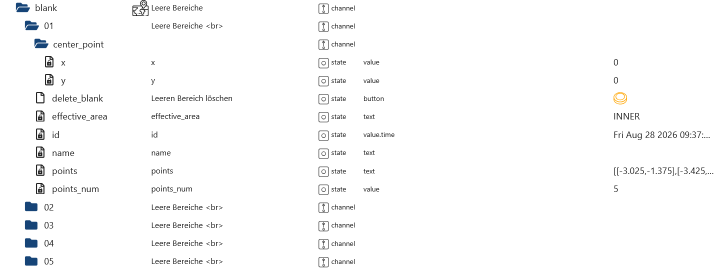
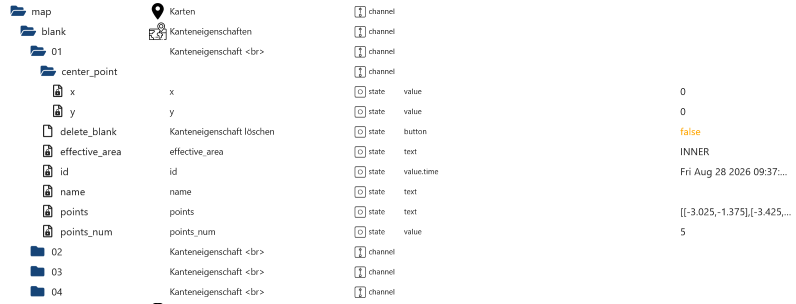
region_blank name changed & catch pattern size

diff --git a/main.js b/main.js
@@ -1744,6 +1744,9 @@ class SunseekerAdapter extends utils.Adapter {
             this.onSunseekerCustomMultiZigZag({ sn, data });
             return;
         }
+        if (data.support_custom_pattern_size) {
+            delete data.support_custom_pattern_size;
+        }
         if (data.time && typeof data.time === "object" && data.time !== null) {
             const time_schedule = Object.assign({}, data);
             this.cleanUpCalendar(sn, time_schedule, 1);
@@ -1797,6 +1800,20 @@ class SunseekerAdapter extends utils.Adapter {
             delete data.status;
             this.setMowerRaw(sn, data);
             return;
+        }
+        if (data.rain_countdown != null) {
+            if (!data.rain) {
+                data.rain = {};
+            }
+            data.rain["rain_countdown"] = data.rain_countdown;
+            delete data.rain_countdown;
+        }
+        if (data.rain_status != null) {
+            if (!data.rain) {
+                data.rain = {};
+            }
+            data.rain["rain_status"] = data.rain_status;
+            delete data.rain_status;
         }
         if (id == "report_notice") {
             const notice = {
@@ -3006,47 +3023,47 @@ class SunseekerAdapter extends utils.Adapter {
                         await this.json2iob.parse(`${sn}.map.blank`, map_info.region_blank, {
                             channelName: {
                                 name: {
-                                    en: "Blank areas",
-                                    de: "Leere Bereiche",
-                                    ru: "Пустые участки",
-                                    pt: "Áreas em branco",
-                                    nl: "Lege gebieden",
-                                    fr: "Zones vides",
-                                    it: "Area vuota",
-                                    es: "Áreas en blanco",
-                                    pl: "Puste obszary",
-                                    uk: "Пусті області",
-                                    "zh-cn": "空白区域",
+                                    en: "Boundary properties",
+                                    de: "Kanteneigenschaften",
+                                    ru: "Свойства ребер",
+                                    pt: "Propriedades de borda",
+                                    nl: "Randeigenschappen",
+                                    fr: "Propriétés de bord",
+                                    it: "Proprietà dei bordi",
+                                    es: "Propiedades de borde",
+                                    pl: "Właściwości krawędzi",
+                                    uk: "Властивості ребра",
+                                    "zh-cn": "边缘属性",
                                 },
                                 icon: "img/blank.png",
                             },
                             forceIndex: true,
                         });
                         const lang_b = {
-                            en: "Blank area delete",
-                            de: "Leeren Bereich löschen",
-                            ru: "Удалить пустую область",
-                            pt: "Excluir área em branco",
-                            nl: "Leeg gebied verwijderen",
-                            fr: "Supprimer la zone vide",
-                            it: "area vuota elimina",
-                            es: "eliminar área en blanco",
-                            pl: "Usuń pusty obszar",
-                            uk: "Видалення порожньої області",
-                            "zh-cn": "空白区域删除",
+                            en: "Delete Boundary property",
+                            de: "Kanteneigenschaft löschen",
+                            ru: "Удалить свойство ребра",
+                            pt: "Excluir propriedade de borda",
+                            nl: "Randeigenschap verwijderen",
+                            fr: "Supprimer la propriété de bord",
+                            it: "Elimina la proprietà del bordo",
+                            es: "Eliminar propiedad de borde",
+                            pl: "Usuń właściwość krawędzi",
+                            uk: "Видалити властивість ребра",
+                            "zh-cn": "删除边属性",
                         };
                         const name_b = {
-                            en: "Blank areas <br>",
-                            de: "Leere Bereiche <br>",
-                            ru: "Пустые участки <br>",
-                            pt: "Áreas em branco <br>",
-                            nl: "Lege gebieden <br>",
-                            fr: "Zones vides <br>",
-                            it: "Area vuota <br>",
-                            es: "Áreas en blanco <br>",
-                            pl: "Puste obszary <br>",
-                            uk: "Пусті області <br>",
-                            "zh-cn": "空白区域 <br>",
+                            en: "Boundary property <br>",
+                            de: "Kanteneigenschaft <br>",
+                            ru: "Краевая собственность <br>",
+                            pt: "Propriedade Edge <br>",
+                            nl: "Randeigenschap <br>",
+                            fr: "Propriété de bord <br>",
+                            it: "proprietà del bordo <br>",
+                            es: "Propiedad Edge <br>",
+                            pl: "Właściwość krawędzi <br>",
+                            uk: "Властивість краю <br>",
+                            "zh-cn": "边缘属性 <br>",
                         };
                         this.sunseeker.addDeleteObject(
                             sn,
@@ -4201,6 +4218,31 @@ class SunseekerAdapter extends utils.Adapter {
     }
 
     /**
+     * @param {string} sn
+     */
+    async editBoundary(sn) {
+        if (!this.sunseeker) {
+            return;
+        }
+        const last_edge = [];
+        const new_edge = [];
+        const region_id = 123;
+        await this.sunseeker.setDeviceProperty(sn, {
+            id: "setDrawEdge",
+            key: "draw_edge",
+            area_info: [
+                {
+                    flag: 0,
+                    last_edge: last_edge,
+                    new_edge: new_edge,
+                    region_id: region_id,
+                    type: 0,
+                },
+            ],
+        });
+    }
+
+    /**
      * @param {string} id
      * @param {string} sn
      * @param {ioBroker.State | null} gap
@@ -4347,6 +4389,7 @@ class SunseekerAdapter extends utils.Adapter {
         let key_send = "";
         /**
          * type = 0 region_work -> zones -> *
+         * type = 1 region_blank -> blank -> map.blank
          * type = 2 region_channel -> passage area -> map.passages
          * type = 3 region_obstacle -> obstacle area -> map.obstacles
          * type = 4 region_forbidden -> forbidden area -> map.forbidden
@@ -4483,11 +4526,11 @@ class SunseekerAdapter extends utils.Adapter {
         let type = -1;
         /**
          * type = 0 region_work -> zones -> *
+         * type = 1 region_blank -> blank -> map.blank ->
          * type = 2 region_channel -> passage area -> map.passages
          * type = 3 region_obstacle -> obstacle area -> map.obstacles
          * type = 4 region_forbidden -> forbidden area -> map.forbidden
          * type = 8 region_placed_blank -> safe area -> map.placed_blank
-         * type = ? region_blank -> blank -> map.blank
          * type = ? region_forbid_trim
          * type = ? divide_area_work
          */
@@ -4645,7 +4688,7 @@ class SunseekerAdapter extends utils.Adapter {
                         const newPattern = {
                             img_value: img.val,
                             last_edit_time: actTime,
-                            min_width: 2.4,
+                            min_width: this.sunseeker.patternSize(img.val),
                             vertexs: JSON.parse(points.val),
                             img_id: actTime - 58535,
                         };
@@ -5678,7 +5721,7 @@ class SunseekerAdapter extends utils.Adapter {
                 );
             }
         } else if (command === "share_apply_invite") {
-            if (state && state.val) {
+            if (state && state.val && state.val != "none") {
                 const data = {
                     deviceSn: state.val,
                     accept: 1,
@@ -5688,7 +5731,7 @@ class SunseekerAdapter extends utils.Adapter {
                     if (obj && obj.common && obj.common.states) {
                         delete obj.common.states[state.val];
                         const new_obj = JSON.parse(JSON.stringify(obj));
-                        const status = await this.sunseeker.acceptShareApplyInvite(id, state.val, new_obj, sn, data);
+                        const status = await this.sunseeker.acceptShareApplyInvite(id, "none", new_obj, sn, data);
                         if (status) {
                             this.restart();
                         }

diff --git a/lib/sunseeker/devices.js b/lib/sunseeker/devices.js
@@ -86,6 +86,33 @@ module.exports = {
     },
 
     /**
+     * @param {string} pattern
+     */
+    patternSize(pattern) {
+        const patternSize = {
+            LOGO_S: 2.4,
+            CIRCLE: 2.4,
+            FOUR_POINT_STAR: 2.4,
+            TRIANGLE: 2.4,
+            HEART: 2.4,
+            NUMB_0: 2.4,
+            NUMB_1: 2.4,
+            NUMB_2: 2.4,
+            NUMB_3: 2.4,
+            NUMB_4: 2.4,
+            NUMB_5: 2.4,
+            NUMB_6: 2.4,
+            NUMB_7: 2.4,
+            NUMB_8: 2.4,
+            NUMB_9: 2.4,
+            FIVE_POINT_STAR: 2.4,
+            FOOTBALL: 4.8,
+            TROPHY: 4.8,
+        };
+        return patternSize[pattern];
+    },
+
+    /**
      * @param {string | boolean | number} hex
      * @returns {string | boolean | number}
      */

diff --git a/lib/sunseeker/index.d.ts b/lib/sunseeker/index.d.ts
@@ -99,6 +99,7 @@ declare class Sunseeker extends EventEmitter {
     getUpdateDevices(): Promise<void>;
     getUpdateSharing(): Promise<void>;
     hexToRGBA(hex: string | boolean | number): void;
+    patternSize(pattern: string): Promise<number>;
 
     // polling-and-settings.js
     startPolling(): void;

diff --git a/docs/de/README.md b/docs/de/README.md
@@ -24,7 +24,7 @@ Wenn Einstellungen fehlen, dann bitte ein Issue anlegen oder im Forum anfragen.
     - [Beispiel Systemnachrichten](#systemmessage)
 - [expert](#expert)
 - [map](#map)
-    - [Leere Bereiche](#leere-bereiche)
+    - [Kanteneigenschaften](#kanteneigenschaften)
     - [Verbotener Bereiche](#verbotene-bereiche)
     - [Aktuelle Map Infos](#aktuelle-map-infos)
     - [Livemap-Einstellungen](#livemap-einstellungen)
@@ -333,7 +333,7 @@ Wenn Einstellungen fehlen, dann bitte ein Issue anlegen oder im Forum anfragen.
 
 | Objekt-ID              | Beschreibung                                    |
 | ---------------------- | ----------------------------------------------- |
-| xxx.map.blank          | Leere Bereiche                                  |
+| xxx.map.blank          | Kanteneigenschaften                             |
 | xxx.map.forbidden      | Verbotene Zonen                                 |
 | xxx.map.info           | Info der aktuellen Karte                        |
 | xxx.map.map_settings   | Livemap-Einstellungen                           |
@@ -356,11 +356,11 @@ Wenn Einstellungen fehlen, dann bitte ein Issue anlegen oder im Forum anfragen.
 
 [Zusammenfassung](#zusammenfassung)
 
-### Leere Bereiche
+### Kanteneigenschaften
 
 | Objekt-ID                     | Beschreibung              |
 | ----------------------------- | ------------------------- |
-| xxx.map.blank.01.delete_blank | Leeren Bereich löschen    |
+| xxx.map.blank.01.delete_blank | Kanteneigenschaft löschen |
 | xxx.map.blank.01.id           | ID                        |
 | xxx.map.blank.01.points       | Points vom leeren Bereich |
 | xxx.map.blank.01.points_num   | Anzahl der Points         |

diff --git a/docs/en/README.md b/docs/en/README.md
@@ -24,7 +24,7 @@ If any settings are missing, please open an issue or ask in the forum.
     - [Example system messages](#systemmessage)
 - [expert](#expert)
 - [map](#map)
-    - [Empty region](#empty-region)
+    - [Boundary properties](#boundary-properties)
     - [Forbidden region](#forbidden-region)
     - [Current Map Info](#current-map-info)
     - [Livemap Settings](#livemap-settings)
@@ -333,7 +333,7 @@ If any settings are missing, please open an issue or ask in the forum.
 
 | Object ID              | Description                                   |
 | ---------------------- | --------------------------------------------- |
-| xxx.map.blank          | Empty areas                                   |
+| xxx.map.blank          | Edge properties                               |
 | xxx.map.forbidden      | Forbidden zones                               |
 | xxx.map.info           | Current map info                              |
 | xxx.map.map_settings   | Live map settings                             |
@@ -356,11 +356,11 @@ If any settings are missing, please open an issue or ask in the forum.
 
 [Summary](#summary)
 
-### Empty region
+### Boundary properties
 
 | Object ID                     | Description              |
 | ----------------------------- | ------------------------ |
-| xxx.map.blank.01.delete_blank | Delete blank area        |
+| xxx.map.blank.01.delete_blank | Delete Boundary property |
 | xxx.map.blank.01.id           | ID                       |
 | xxx.map.blank.01.points       | Points of the blank area |
 | xxx.map.blank.01.points_num   | Number of points         |
